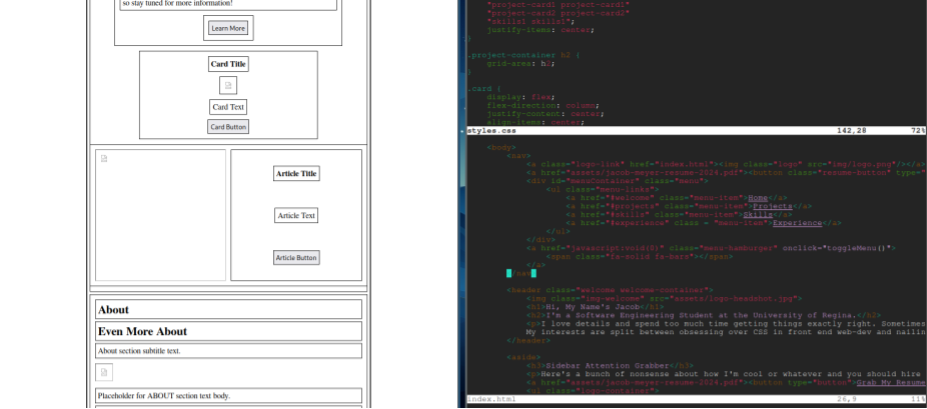
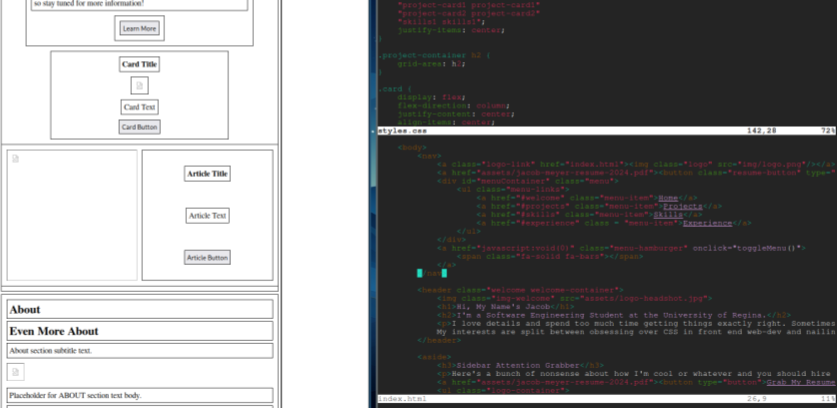
Fix element overflow

Changed region(s): [[0.4349, 0.0, 1.0, 1.0], [0.0, 0.0, 0.4038, 1.0], [0.8076, 0.7059, 0.8698, 0.7353]]

diff --git a/styles.css b/styles.css
@@ -19,6 +19,7 @@ body {
 /* start navigation */
 
 nav {
+    grid-area: nav;
     display: flex;
     flex-direction: row;
     justify-content: space-between;
@@ -56,16 +57,6 @@ nav .menu-hamburger {
     background-color: #666666;
 }
 
-/*
-nav ul {
-    list-style-type: none;
-    justify-content: flex-start;
-    align-items: center;
-    text-align: center;
-    width: 200px;
-}
-*/
-
 nav .menu {
     position: absolute;
     top: 0;
@@ -94,6 +85,7 @@ nav .menu-item {
 /* end navigation */
 
 header {
+    grid-area: header;
     margin-top: 80px; /* avoid content overlay with nav */
 }
 
@@ -118,6 +110,7 @@ header {
 }
 
 aside {
+    grid-area: aside;
     display: flex;
     flex-direction: column;
     justify-content: space-evenly;
@@ -129,6 +122,12 @@ aside {
     flex-direction: row;
     justify-content: center;
     column-gap: 10px;
+    list-style-type: none;
+    padding-left: 0; /* remove ul element padding */
+}
+
+main {
+    grid-area: main;
 }
 
 main * {
@@ -143,7 +142,7 @@ main * {
 }
 
 .banner-image {
-    width: 100%; 
+    width: auto; 
     height: auto;
     max-height: 400px;
     object-fit: cover;
@@ -196,7 +195,7 @@ main * {
     display: flex;
     flex-direction: row;
     justify-content: space-around; /* push image to edge of page */
-    width: 100%;
+    width: auto;
 }
 
 .split-screen img {
@@ -218,11 +217,11 @@ main * {
 }
 
 footer {
+    grid-area: footer;
     display: flex;
     flex-direction: column;
-    justify-content: center;
-    margin: auto;
-    width: 100%;
+    justify-content: stretch;
+    align-items: center;
     padding: 20px;
 
 }
